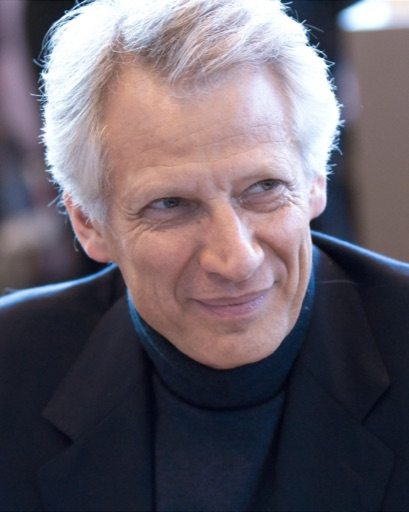
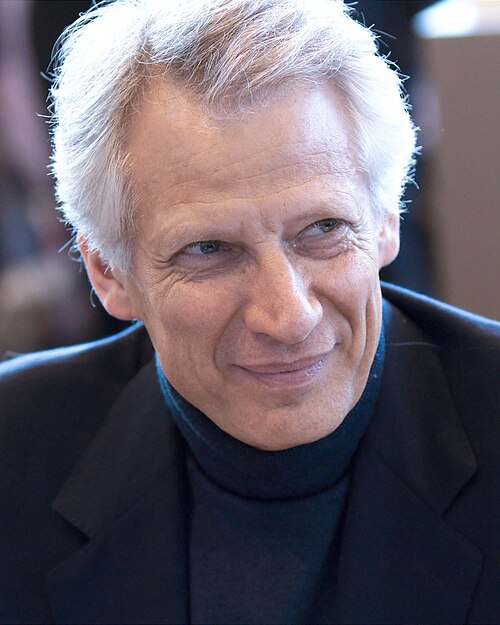
Remplacer les photos par de vraies photos officielles Wikimedia
26 candidats + 5 anciens presidents (de Gaulle, Pompidou, Chirac,
Sarkozy, Macron) mis a jour via l API Wikipedia FR (images
Wikimedia Commons, sources libres). 3 anciens presidents restent
en avatar initiales (Giscard, Mitterrand, Hollande - recherche a
refaire plus tard, Wikipedia a limite le debit des requetes).

Claude-Session: https://claude.ai/code/session_01Q5E2pWVjx31Smhjp8UYrcT

diff --git a/data-loader.js b/data-loader.js
@@ -153,14 +153,14 @@ const FICHES = {
   guedj: { description:'Député de l\'Essonne, figure du Parti socialiste.', programme:'Restauration de l\'État social, services publics, écologie, justice fiscale.', soutenir:'https://jeromeguedj.fr', twitter:'https://twitter.com/jeromeguedj', website:'https://jeromeguedj.fr', photo:'photos/guedj.jpg' },
   dupontaignan: { description:'Ancien député de l\'Essonne, président de Debout la France.', programme:'Référendum d\'initiative citoyenne, souverainisme, immigration, sécurité.', soutenir:'https://www.debout-la-france.fr', twitter:'https://twitter.com/ndupontaignan', website:'https://www.debout-la-france.fr', photo:'photos/dupontaignan.jpg' },
   lisnard: { description:'Maire de Cannes depuis 2014. Fondateur du mouvement Nouvelle Énergie.', programme:'Sécurité, numérique, attractivité économique, transition écologique.', soutenir:'https://www.davidlisnard.fr', twitter:'https://twitter.com/DavidLisnard', website:'https://www.davidlisnard.fr', photo:'photos/lisnard.jpg' },
-  batho: { description:'Ancienne ministre de l\'Écologie, présidente de Génération Écologie.', programme:'Transition écologique, démocratie, justice climatique.', soutenir:'https://www.generation-ecologie.fr', twitter:'https://twitter.com/DelphineBatho', website:'https://www.generation-ecologie.fr', photo:'photos/batho.jpg' },
+  batho: { description:'Ancienne ministre de l\'Écologie, présidente de Génération Écologie.', programme:'Transition écologique, démocratie, justice climatique.', soutenir:'https://www.generation-ecologie.fr', twitter:'https://twitter.com/DelphineBatho', website:'https://www.generation-ecologie.fr', photo:'photos/batho.png' },
   philippot: { description:'Fondateur des Patriotes après son départ du Front National.', programme:'Souverainisme, sortie de l\'UE, référendum, immigration.', soutenir:'https://lespatriotes.fr', twitter:'https://twitter.com/FlorianPhilippot', website:'https://lespatriotes.fr', photo:'photos/philippot.jpg' },
   asselineau: { description:'Fondateur de l\'Union populaire républicaine (UPR).', programme:'Sortie de l\'UE, de l\'euro et de l\'OTAN. Démocratie directe.', soutenir:'https://www.upr.fr', twitter:'https://twitter.com/AsselineauF', website:'https://www.upr.fr', photo:'photos/asselineau.jpg' },
   arthaud: { description:'Porte-parole de Lutte ouvrière.', programme:'Lutte des classes, nationalisations, services publics.', soutenir:'https://www.lutte-ouvriere.fr', twitter:'', website:'https://www.lutte-ouvriere.fr', photo:'photos/arthaud.jpg' },
   roussel: { description:'Sénateur du Nord, secrétaire national du Parti communiste français.', programme:'Services publics, retraites, pouvoir d\'achat, écologie populaire, paix.', soutenir:'https://www.pcf.fr', twitter:'https://twitter.com/f_roussel', website:'https://www.pcf.fr', photo:'photos/roussel.jpg' },
   tondelier: { description:'Maire d\'Hénin-Beaumont, secrétaire nationale des Écologistes (EÉLV).', programme:'Écologie, justice sociale, droits humains, démocratie.', soutenir:'https://www.eelv.fr', twitter:'https://twitter.com/marine_td', website:'https://www.eelv.fr', photo:'photos/tondelier.jpg' },
   cazeneuve: { description:'Ancien Premier ministre (2016-2017). Fondateur du parti La Convention.', programme:'Rénovation démocratique, justice sociale, écologie, laïcité.', soutenir:'https://bernardcazeneuve.fr', twitter:'', website:'https://bernardcazeneuve.fr', photo:'photos/cazeneuve.jpg' },
-  faure: { description:'Député de Seine-et-Marne, ancien Premier secrétaire du Parti socialiste.', programme:'Restauration de l\'État social, écologie, justice, services publics.', soutenir:'https://olivierfaure.fr', twitter:'https://twitter.com/OlivierFaure', website:'https://olivierfaure.fr', photo:'photos/faure.jpg' },
+  faure: { description:'Député de Seine-et-Marne, ancien Premier secrétaire du Parti socialiste.', programme:'Restauration de l\'État social, écologie, justice, services publics.', soutenir:'https://olivierfaure.fr', twitter:'https://twitter.com/OlivierFaure', website:'https://olivierfaure.fr', photo:'photos/faure.png' },
   ruffin: { description:'Député de la Somme, fondateur du mouvement Debout !.', programme:'Salaires, services publics, écologie populaire, démocratie, retraites.', soutenir:'https://francoisruffin.fr', twitter:'https://twitter.com/F_Ruffin', website:'https://francoisruffin.fr', photo:'photos/ruffin.jpg' },
   wauquiez: { description:'Président de la région Auvergne-Rhône-Alpes.', programme:'Sécurité, immigration, identité, souveraineté, autorité.', soutenir:'https://www.laurentwauquiez.fr', twitter:'https://twitter.com/lwauquiez', website:'https://www.laurentwauquiez.fr', photo:'photos/wauquiez.jpg' },
   devillepin: { description:'Ancien Premier ministre (2005-2007). Candidat pressenti.', programme:'Souveraineté, diplomatie, culture, refonte des institutions.', soutenir:'', twitter:'', website:'', photo:'photos/devillepin.jpg' },
@@ -177,7 +177,7 @@ const FICHES = {
   labib: { description:'Candidate du NPA-Révolutionnaires (trotskyste).', programme:'Anti-capitalisme, luttes sociales, internationalisme.', soutenir:'https://npa-revolutionnaires.fr', twitter:'', website:'https://npa-revolutionnaires.fr' },
   lalanne: { description:'Chanteur et militant. Fondateur du mouvement France Libre.', programme:'Souveraineté, libertés, non-conformisme.', soutenir:'', twitter:'https://twitter.com/Francis_Lalanne', website:'', photo:'photos/lalanne.jpg' },
   mathieu: { description:'Candidat sans étiquette.', programme:'Démocratie directe, référendum d\'initiative citoyenne.', soutenir:'', twitter:'', website:'' },
-  durif: { description:'Candidat sans étiquette, dit « le Grand Monarque ».', programme:'Aucun programme vérifiable.', soutenir:'', twitter:'', website:'', photo:'photos/durif.jpg' },
+  durif: { description:'Candidat sans étiquette, dit « le Grand Monarque ».', programme:'Aucun programme vérifiable.', soutenir:'', twitter:'', website:'', photo:'photos/durif.png' },
   royal: { description:'Ancienne ministre, présidente de la région Poitou-Charentes (2004-2014).', programme:'Écologie, éducation, services publics, parité.', soutenir:'', twitter:'https://twitter.com/SRoyal', website:'', photo:'photos/royal.jpg' },
   jadot: { description:'Ancien député européen (EÉLV). Hors course après retrait.', programme:'Écologie, climat, justice sociale.', soutenir:'', twitter:'https://twitter.com/yjadot', website:'', photo:'photos/jadot.jpg' },
   rousseau: { description:'Ancienne députée (EÉLV). Hors course après retrait.', programme:'Écologie, féminisme, justice sociale.', soutenir:'', twitter:'https://twitter.com/SandrineRousseau', website:'', photo:'photos/rousseau.jpg' },

diff --git a/former-presidents.js b/former-presidents.js
@@ -1,17 +1,17 @@
 // ============================================================
 // Présidents de la Ve République (1958 -> aujourd'hui)
 // Dates d'élection = date du scrutin (2e tour quand il y en a un).
-// Aucune photo fournie : avatars générés (initiales), comme pour
-// les candidats sans photo. Remplaçable via un champ "photo" si
-// des images sous licence libre sont fournies plus tard.
+// Photos officielles libres (Wikimedia Commons) quand disponibles ;
+// repli sur un avatar en initiales sinon (giscard, mitterrand,
+// hollande : recherche non aboutie, a completer plus tard).
 // ============================================================
 const FORMER_PRESIDENTS = [
-  { id: 'degaulle', nom: 'Charles de Gaulle', parti: 'Union pour la Nouvelle République', couleur: '#264653', dateElection: '21 décembre 1958', note: 'Élu par un collège électoral élargi (avant la réforme du suffrage universel direct de 1962).' },
-  { id: 'pompidou', nom: 'Georges Pompidou', parti: 'Union des démocrates pour la République', couleur: '#1d3557', dateElection: '15 juin 1969' },
+  { id: 'degaulle', nom: 'Charles de Gaulle', parti: 'Union pour la Nouvelle République', couleur: '#264653', dateElection: '21 décembre 1958', note: 'Élu par un collège électoral élargi (avant la réforme du suffrage universel direct de 1962).', photo: 'photos/degaulle.jpg' },
+  { id: 'pompidou', nom: 'Georges Pompidou', parti: 'Union des démocrates pour la République', couleur: '#1d3557', dateElection: '15 juin 1969', photo: 'photos/pompidou.jpg' },
   { id: 'giscard', nom: 'Valéry Giscard d\'Estaing', parti: 'Républicains indépendants', couleur: '#457b9d', dateElection: '19 mai 1974' },
   { id: 'mitterrand', nom: 'François Mitterrand', parti: 'Parti socialiste', couleur: '#e63946', dateElection: '10 mai 1981', note: 'Réélu en 1988.' },
-  { id: 'chirac', nom: 'Jacques Chirac', parti: 'Rassemblement pour la République', couleur: '#1d3557', dateElection: '7 mai 1995', note: 'Réélu en 2002.' },
-  { id: 'sarkozy', nom: 'Nicolas Sarkozy', parti: 'Union pour un mouvement populaire', couleur: '#264653', dateElection: '6 mai 2007' },
+  { id: 'chirac', nom: 'Jacques Chirac', parti: 'Rassemblement pour la République', couleur: '#1d3557', dateElection: '7 mai 1995', note: 'Réélu en 2002.', photo: 'photos/chirac.jpg' },
+  { id: 'sarkozy', nom: 'Nicolas Sarkozy', parti: 'Union pour un mouvement populaire', couleur: '#264653', dateElection: '6 mai 2007', photo: 'photos/sarkozy.jpg' },
   { id: 'hollande', nom: 'François Hollande', parti: 'Parti socialiste', couleur: '#e63946', dateElection: '6 mai 2012' },
-  { id: 'macron', nom: 'Emmanuel Macron', parti: 'La République En Marche', couleur: '#7b2cbf', dateElection: '7 mai 2017', note: 'Réélu en 2022.' }
+  { id: 'macron', nom: 'Emmanuel Macron', parti: 'La République En Marche', couleur: '#7b2cbf', dateElection: '7 mai 2017', note: 'Réélu en 2022.', photo: 'photos/macron.jpg' }
 ];

diff --git a/app.js b/app.js
@@ -427,10 +427,13 @@ function renderPresidentsTimeline() {
 
   wrap.innerHTML = FORMER_PRESIDENTS.map(p => {
     const initials = p.nom.split(' ').map(w => w[0]).join('').slice(-2).toUpperCase();
+    const avatar = p.photo
+      ? `<img class="president-avatar" style="object-fit:cover" src="${p.photo}" alt="${p.nom}" loading="lazy" onerror="handleAvatarError(this,'${initials}','${p.couleur}')">`
+      : `<div class="president-avatar" style="background:${p.couleur}">${initials}</div>`;
     return `
       <div class="president-item">
         <div class="president-dot" style="background:${p.couleur}"></div>
-        <div class="president-avatar" style="background:${p.couleur}">${initials}</div>
+        ${avatar}
         <div class="president-info">
           <div class="president-name">${p.nom}</div>
           <div class="president-party">${p.parti}</div>
